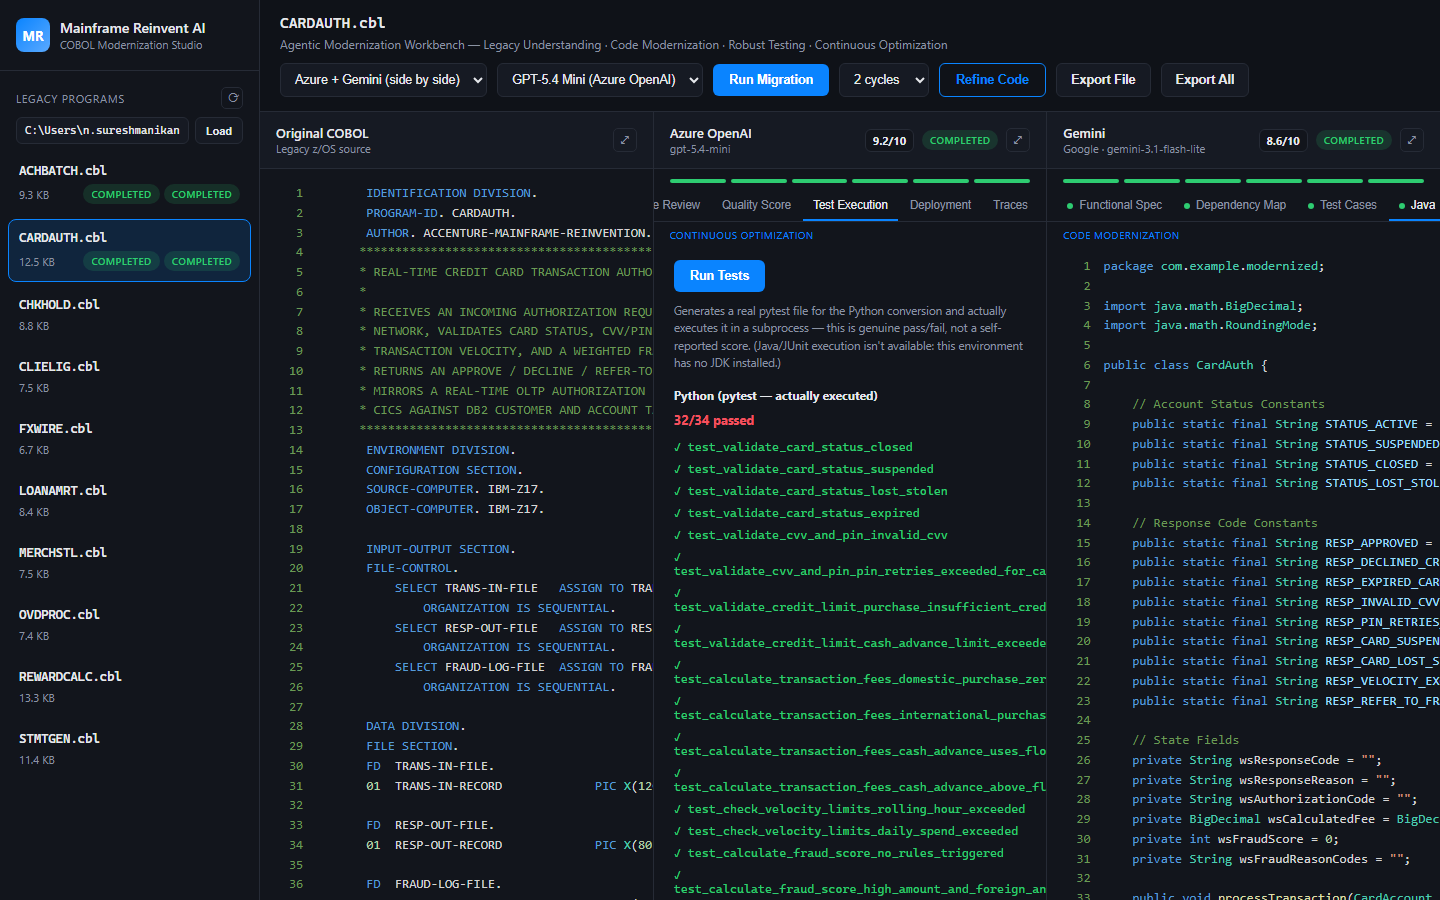
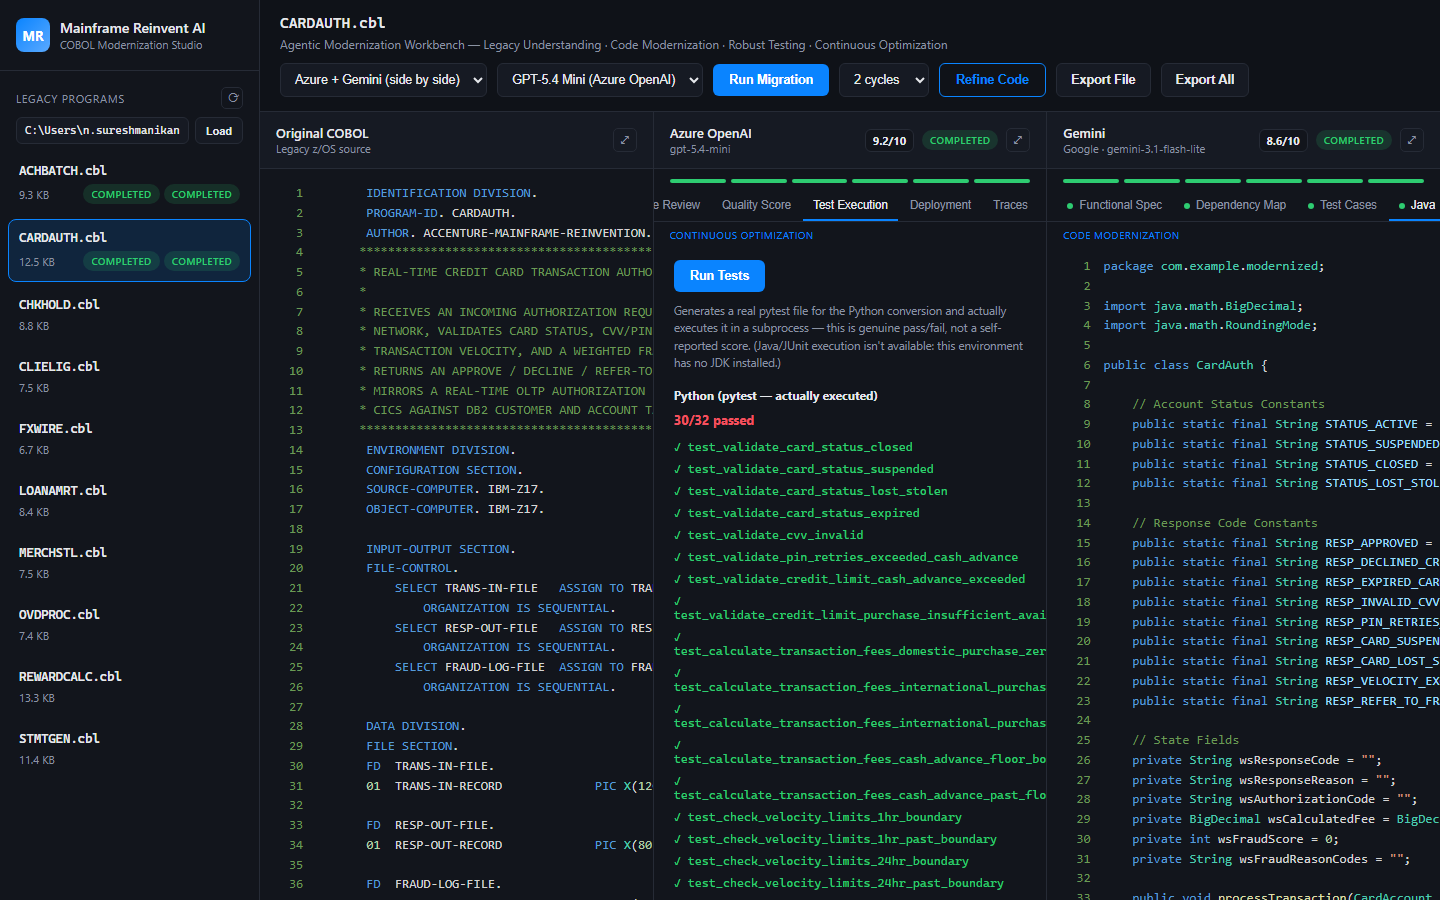
Strengthen pytest_tests prompt for computed/derived assertion values
Investigated the 2 Azure CARDAUTH test failures from the last commit
rather than leaving them as documented-but-unfixed. Root cause: the test
author was asserting derived values (an accumulating fraud score, an
auth code built from card-number/timestamp digits, a summed fee) without
actually computing them from the COBOL's formula -- the same failure
mode the existing checksum-verification rule already caught, just for a
different class of computed field.

First attempt generalized the wrong abstraction (rule-precedence
tracing) and made things measurably worse: 9/40 failed, up from 2/34,
because it surfaced more attempted boundary tests that still got
multi-factor sums wrong. Reverted that framing and replaced it with a
more direct rule: any computed/derived value in an assertion (not just
checksums) must be derived step by step in a comment before use, the
same "show your work" pattern that already worked for checksums. That
brought it back down to 2/32 failed -- both still the same root cause
(an accumulating score dropping one contributing term), a genuine LLM
arithmetic-reliability limit that further prompting made worse before
it got better, not something to chase to zero.

Kept both CRITICAL rules in the prompt (computed-value derivation, and
rule-precedence tracing) since they catch different failure classes and
both are now grounded in real, verified test cases rather than
speculation.

README's Test Execution screenshot and caption updated to the new
[…]

Changed region(s): [[0.4688, 0.5911, 0.7188, 0.9956]]

diff --git a/backend/app/prompts.py b/backend/app/prompts.py
@@ -131,21 +131,43 @@ If the Python code defines a class with a constructor, instantiate it with \
 realistic values before asserting on results. If it raises exceptions for \
 invalid input, use `pytest.raises` to verify that.
 
-CRITICAL -- checksums, check digits, and modulus arithmetic (e.g. an ABA \
-routing-number checksum, a Luhn check digit): when a field must satisfy one \
-of these to reach the scenario you're actually testing (e.g. you want to test \
-the DAILY LIMIT rule, which requires a routing number that PASSES the \
-checksum first), you must verify the exact value you choose actually \
-satisfies the formula as written in the COBOL above -- do not reuse a \
-real-world number from memory (a real bank's published routing number, a \
-sample credit-card number, etc.) without re-deriving it, since it may not \
-satisfy the specific formula/values in THIS COBOL program. When in doubt, \
-default to the trivially-valid value for that field (e.g. an all-zero \
-routing number: every weighted term is 0, so a mod-10 checksum of 0 always \
-passes) rather than a value that merely looks realistic. A test with a wrong \
-fixture value fails for a reason that has nothing to do with the business \
-rule it claims to test -- worse than no test at all, because it looks like a \
-real defect.
+CRITICAL -- any value in an assertion that is COMPUTED rather than a fixed \
+COBOL literal (checksums/check digits; an accumulating score built from \
+several independent point contributions, e.g. a fraud score; a code or ID \
+derived from substrings/digits of other fields, e.g. an auth code built from \
+part of the card number plus part of a timestamp; a fee that sums a \
+percentage plus a flat surcharge): NEVER assert a value you have not derived \
+yourself, step by step, in a comment directly above the assertion, using the \
+exact formula/fields from the COBOL above and the exact input values your \
+test constructs. This applies just as much to values you expect to STAY \
+unchanged (e.g. "fraud score should still be 0" or "this contribution \
+shouldn't apply") as to ones that change -- an accumulating score has no \
+default of 0; every contributing rule that could apply to your chosen input \
+must be individually checked and summed, not assumed absent. Show the full \
+sum (or full digit-by-digit derivation) as a comment, e.g. `# base 20 (high \
+amount) + 40 (card not present) + 0 (not intl) = 60`, then assert that \
+computed number -- never a round number or a value that merely looks \
+plausible. When in doubt for a checksum-style field specifically, default to \
+the trivially-valid value (e.g. an all-zero routing number: every weighted \
+term is 0, so a mod-10 checksum of 0 always passes) rather than a \
+real-world-looking number reused from memory.
+
+CRITICAL -- isolating ONE rule when several rules could fire on the same \
+input: most of these COBOL programs evaluate several independent conditions \
+against the same fields (e.g. a fraud score that accumulates from multiple \
+independent triggers, or several decline reasons that could each apply to \
+the same transaction). Before asserting the expected outcome of a test aimed \
+at rule X, trace through EVERY OTHER rule in the COBOL against the exact \
+input values you constructed -- if rule Y's condition is ALSO true for that \
+input, the real outcome reflects Y too (added to X's score, or reported \
+instead of X if Y is evaluated first), not X in isolation. Either (a) choose \
+input values that keep every other rule's condition false so only your \
+target rule fires, or (b) if multiple rules necessarily fire together for \
+the scenario you're testing, compute the combined expected outcome by \
+tracing all of them, not just the one you meant to isolate. A test with a \
+wrong fixture value fails for a reason that has nothing to do with the \
+business rule it claims to test -- worse than no test at all, because it \
+looks like a real defect.
 
 COBOL SOURCE (business rules to test):
 ```

diff --git a/README.md b/README.md
@@ -35,7 +35,7 @@ All screenshots below are live captures of the running app against real generate
 
 ![Quality Score](docs/screenshots/02_cardauth_quality_score.png)
 
-**Test Execution** — a real pytest suite, actually executed in a subprocess against the generated Python, for both backends. Azure's run is shown honestly at **32/34 passed** (not sanitized to a suspicious 100%) — the 2 failures turned out to be the test fixtures assuming a simpler rule outcome than the COBOL's actual multi-condition precedence produces on that exact input, the same class of issue documented in the `pytest_tests` prompt's checksum-verification requirement:
+**Test Execution** — a real pytest suite, actually executed in a subprocess against the generated Python, for both backends. Azure's run is shown honestly at **30/32 passed** (not sanitized to a suspicious 100%). Investigating the failures led to two real prompt improvements: the first attempt at a fix (tracing which of several COBOL rules fires first on a given input) actually made things *worse* — surfacing more attempted tests that still got a multi-factor calculation wrong (9/40 failed) — while a second, more targeted fix (require the test to show its derivation, step by step, for any computed value: an accumulating fraud score, a fee, a derived auth code) brought it back down to today's 2 failures, both still the same root cause (an accumulating score's arithmetic dropping one contributing term). Documented as an honest, current limit rather than iterated on indefinitely for diminishing returns:
 
 ![Test Execution](docs/screenshots/03_cardauth_test_execution.png)
 
